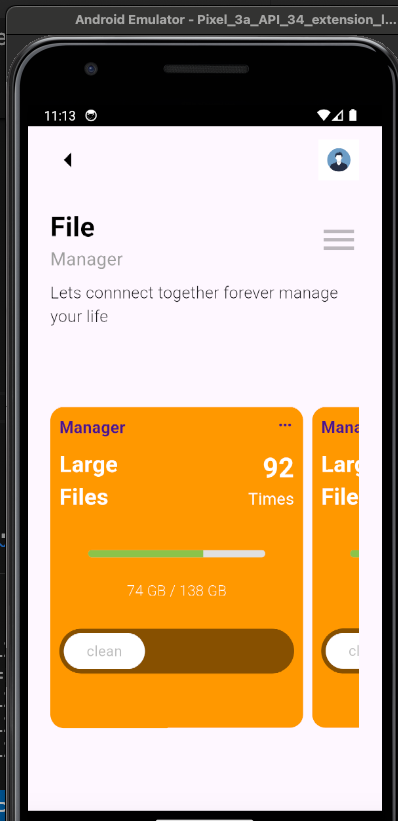
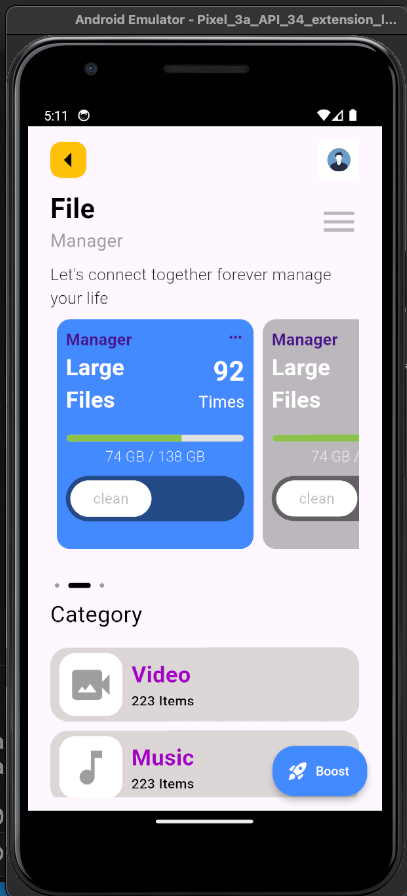
fixed changes

diff --git a/lib/main.dart b/lib/main.dart
@@ -1,5 +1,7 @@
 import 'package:flutter/material.dart';
 import 'package:practice_ui_flutter/widgets/custom_container.dart';
+import 'package:practice_ui_flutter/widgets/custom_listview.dart';
+import 'package:practice_ui_flutter/widgets/custom_seperator.dart';
 import 'package:practice_ui_flutter/widgets/mycustom_appbar.dart';
 
 void main() {
@@ -9,7 +11,6 @@ void main() {
 class MyApp extends StatelessWidget {
   const MyApp({super.key});
 
-  // This widget is the root of your application.
   @override
   Widget build(BuildContext context) {
     return MaterialApp(
@@ -21,66 +22,117 @@ class MyApp extends StatelessWidget {
         ),
         home: SafeArea(
           child: Scaffold(
+            floatingActionButton: FloatingActionButton.extended(
+              backgroundColor: Colors.blueAccent,
+              shape: ShapeBorder.lerp(
+                BeveledRectangleBorder(
+                  borderRadius: BorderRadius.circular(20),
+                ),
+                RoundedRectangleBorder(
+                  borderRadius: BorderRadius.circular(25),
+                ),
+                0.5, // This controls the interpolation
+              ),
+              onPressed: () {},
+              label: Text("Boost", style: TextStyle(color: Colors.white)),
+              icon: Icon(Icons.rocket_launch, color: Colors.white),
+            ),
             body: Padding(
-              padding:
-                  const EdgeInsets.symmetric(horizontal: 25.0, vertical: 15),
-              child: Column(
-                children: [
-                  MyAppBar(),
-                  SizedBox(
-                    height: 30,
-                  ),
-                  Row(
-                    mainAxisAlignment: MainAxisAlignment.spaceBetween,
-                    children: [
-                      Column(
-                        crossAxisAlignment: CrossAxisAlignment.start,
-                        mainAxisAlignment: MainAxisAlignment.center,
-                        children: [
-                          Text(
-                            "File",
-                            style: TextStyle(
+              padding: const EdgeInsets.symmetric(horizontal: 25.0, vertical: 15),
+              child: SingleChildScrollView(
+                child: Column(
+                  crossAxisAlignment: CrossAxisAlignment.start,
+                  
+                  children: [
+                    MyAppBar(),
+                    SizedBox(height: 10),
+                    Row(
+                      mainAxisAlignment: MainAxisAlignment.spaceBetween,
+                      children: [
+                        Column(
+                          crossAxisAlignment: CrossAxisAlignment.start,
+                          mainAxisAlignment: MainAxisAlignment.center,
+                          children: [
+                            Text(
+                              "File",
+                              style: TextStyle(
                                 color: Colors.black,
                                 fontSize: 30,
-                                fontWeight: FontWeight.bold),
-                          ),
-                          Text(
-                            "Manager",
-                            style: TextStyle(
+                                fontWeight: FontWeight.bold,
+                              ),
+                            ),
+                            Text(
+                              "Manager",
+                              style: TextStyle(
                                 color: Colors.grey,
                                 fontSize: 20,
-                                fontWeight: FontWeight.normal),
-                          ),
-                        ],
-                      ),
-                      Icon(Icons.menu, size: 45, color: Colors.black26)
-                    ],
-                  ),
-                  SizedBox(
-                    height: 10,
-                  ),
-                  Text(
-                    "Lets connnect together forever manage your life",
-                    style: TextStyle(
+                                fontWeight: FontWeight.normal,
+                              ),
+                            ),
+                          ],
+                        ),
+                        Icon(Icons.menu, size: 45, color: Colors.black26),
+                      ],
+                    ),
+                    SizedBox(height: 10),
+                    Text(
+                      "Let's connect together forever manage your life",
+                      style: TextStyle(
                         color: Colors.grey[240],
                         fontSize: 18,
-                        fontWeight: FontWeight.w300),
-                  ),
-                  SizedBox(
-                    height: 350,
-                    child: Flexible(
-                      child: ListView.builder(
-                          itemCount: 5,
-                          scrollDirection: Axis.horizontal,
-                          itemBuilder: (context, index) {
-                            return Padding(
-                              padding: EdgeInsets.all(10),
-                              child: MyCardView(),
-                            );
-                          }),
+                        fontWeight: FontWeight.w300,
+                      ),
                     ),
-                  )
-                ],
+                    SizedBox(
+                      height: 275,
+                      child: ListView.builder(
+                        itemCount: 5,
+                        scrollDirection: Axis.horizontal,
+                        itemBuilder: (context, index) {
+                          return Padding(
+                            padding: EdgeInsets.only(right: 10,bottom: 10,top: 10),
+                            child: index==0? MyCardView():index ==1 ?MyCardView(color: Colors.blueAccent,) : index==2 ?MyCardView(color: Colors.black26,):MyCardView(),
+                          );
+                        },
+                      ),
+                    ),
+                    SizedBox(height: 15,),
+                     CustomSeperator(),
+                    Row(
+                      mainAxisAlignment: MainAxisAlignment.start,
+                      children: [
+                        Text(
+                          "Category",
+                          style: TextStyle(
+                            color: Colors.black,
+                            fontSize: 25,
+                            fontWeight: FontWeight.w400,
+                          ),
+                        ),
+                      ],
+                    ),
+                    SizedBox(height: 10,),
+                   SizedBox(
+                      height: 200, // Adjust this height as needed
+                      child: ListView(
+                        
+                        shrinkWrap: true, // Ensure it only takes up as much space as needed
+                        scrollDirection: Axis.vertical,
+                        children: [
+                          CustomListcardView(),
+                          SizedBox(height: 10),
+                          CustomListcardView(icon: Icons.video_camera_back,),
+                          SizedBox(height: 10),
+                          CustomListcardView(),
+                          SizedBox(height: 10),
+                          CustomListcardView(),
+                          SizedBox(height: 10),
+                          CustomListcardView(),
+                        ],
+                      ),
+                    ),
+                  ],
+                ),
               ),
             ),
           ),

diff --git a/lib/widgets/custom_seperator.dart b/lib/widgets/custom_seperator.dart
@@ -1,0 +1,51 @@
+import 'package:flutter/material.dart';
+
+class CustomSeperator extends StatelessWidget {
+  const CustomSeperator({super.key});
+
+  @override
+  Widget build(BuildContext context) {
+    return   Container(
+            height: 30,
+            child: ListView.builder(
+              scrollDirection: Axis.horizontal,
+              itemCount: 3,
+              itemBuilder: (context, index) {
+                return GestureDetector(
+                  onTap: () {
+                   
+                  },
+                  child: Container(
+                    padding: EdgeInsets.symmetric(horizontal: 5),
+                    alignment: Alignment.center,
+                    child: Column(
+                      mainAxisAlignment: MainAxisAlignment.center,
+                      children: [
+                        1 == index
+                            ? Container(
+                                width: 25,
+                                height: 6,
+                                decoration: BoxDecoration(
+                                  color: Colors.black,
+                                  borderRadius: BorderRadius.circular(5),
+                                ),
+                              )
+                            : Container(
+                                width: 5,
+                                height: 5,
+                                decoration: BoxDecoration(
+                                  color: Colors.grey,
+                                  shape: BoxShape.circle,
+                                ),
+                              ),
+                      ],
+                    ),
+                  ),
+                );
+              },
+            ),
+          );
+                  
+                  
+  }
+}

diff --git a/lib/widgets/custom_listview.dart b/lib/widgets/custom_listview.dart
@@ -1,0 +1,44 @@
+import 'package:flutter/material.dart';
+
+class CustomListcardView extends StatelessWidget {
+  IconData? icon;
+   CustomListcardView({super.key,this.icon});
+
+  @override
+  Widget build(BuildContext context) {
+    return Container(
+        padding: const EdgeInsets.only(top: 6.0,bottom: 6,left: 5,right: 5),
+        // margin: EdgeInsets.all(10),
+      decoration: 
+      BoxDecoration(color:
+      Color.fromARGB(255, 220, 214, 214),
+      borderRadius: BorderRadius.circular(20), ),
+      child: Row(
+        mainAxisAlignment: MainAxisAlignment.start,
+        crossAxisAlignment: CrossAxisAlignment.center,
+        children: [ 
+           SizedBox(width: 5,),
+          Container(
+            padding: EdgeInsets.all(10),
+           decoration: BoxDecoration(borderRadius: BorderRadius.circular(18),
+           color: Colors.white,),
+            child:Icon(icon?? Icons.music_note,size: 50,color: Colors.grey,))
+          ,SizedBox(width:10,),
+           Column(
+            mainAxisAlignment: MainAxisAlignment.start,
+            crossAxisAlignment: CrossAxisAlignment.start,
+            children: [ 
+              Text(icon==null?"Music":"Video",style: TextStyle(color: Color.fromARGB(255, 165, 0, 198), 
+              fontSize: 25,
+              fontWeight: FontWeight.bold),),
+              Text("223 Items",style: TextStyle(color: Colors.black, 
+              fontSize: 15,
+              fontWeight: FontWeight.w500),),
+            ],
+           )
+        ],
+        
+      ),
+    );
+  }
+}

diff --git a/lib/widgets/mycustom_appbar.dart b/lib/widgets/mycustom_appbar.dart
@@ -5,19 +5,33 @@ class MyAppBar extends StatelessWidget {
 
   @override
   Widget build(BuildContext context) {
-    return  
-        Row(
-          mainAxisAlignment: MainAxisAlignment.spaceBetween,
-          children: [ 
-            Icon(Icons.arrow_left,size: 40,color: Colors.black,),
-            Container(
-        height:45 ,
-        width: 45,
-        child:  Image.asset("assets/profile.png",fit: BoxFit.cover,),
-            )
-        
-        ],)
-        
-        ;
+    return Row(
+      mainAxisAlignment: MainAxisAlignment.spaceBetween,
+      children: [
+        Container(
+          decoration: BoxDecoration( 
+             color: Colors.amber,
+             borderRadius: BorderRadius.circular(12)
+          ),
+          padding: EdgeInsets.all(0),
+         
+           // Ensure no extra padding
+          alignment: Alignment.centerLeft, // Align the icon to the left
+          child: Icon(
+            Icons.arrow_left,
+            size: 40, // Adjust size if necessary
+            color: Colors.black,
+          ),
+        ),
+        Container(
+          height: 45,
+          width: 45,
+          child: Image.asset(
+            "assets/profile.png",
+            fit: BoxFit.cover,
+          ),
+        ),
+      ],
+    );
   }
 }

diff --git a/lib/widgets/custom_container.dart b/lib/widgets/custom_container.dart
@@ -1,7 +1,8 @@
 import 'package:flutter/material.dart';
 
 class MyCardView extends StatefulWidget {
-  const MyCardView({super.key});
+  Color? color;
+   MyCardView({super.key,this.color});
 
   @override
   State<MyCardView> createState() => _MyCardViewState();
@@ -15,10 +16,10 @@ class _MyCardViewState extends State<MyCardView> {
   Widget build(BuildContext context) {
     return Container(
      
-      width: MediaQuery.of(context).size.width / 1.6,
+      width: MediaQuery.of(context).size.width / 1.8,
       padding: const EdgeInsets.all(10),
       decoration: BoxDecoration(
-        color: Colors.orange,
+        color: widget.color ?? Colors.orange,
         borderRadius: BorderRadius.circular(15),
       ),
       child: Column(
@@ -40,7 +41,7 @@ class _MyCardViewState extends State<MyCardView> {
           ),
           const SizedBox(height: 10),
           _buildCleanSlider(),
-          const SizedBox(height: 10),
+        
         ],
       ),
     );

diff --git a/README.md b/README.md
@@ -20,7 +20,7 @@ samples, guidance on mobile development, and a full API reference.
 Here are some screenshots of the application:
 
 ### Home Screen
-![Home Screen](assets/3.png)
+![Home Screen](assets/1.png)
 
 ### Details Screen
 ![Details Screen](assets/2.png)
